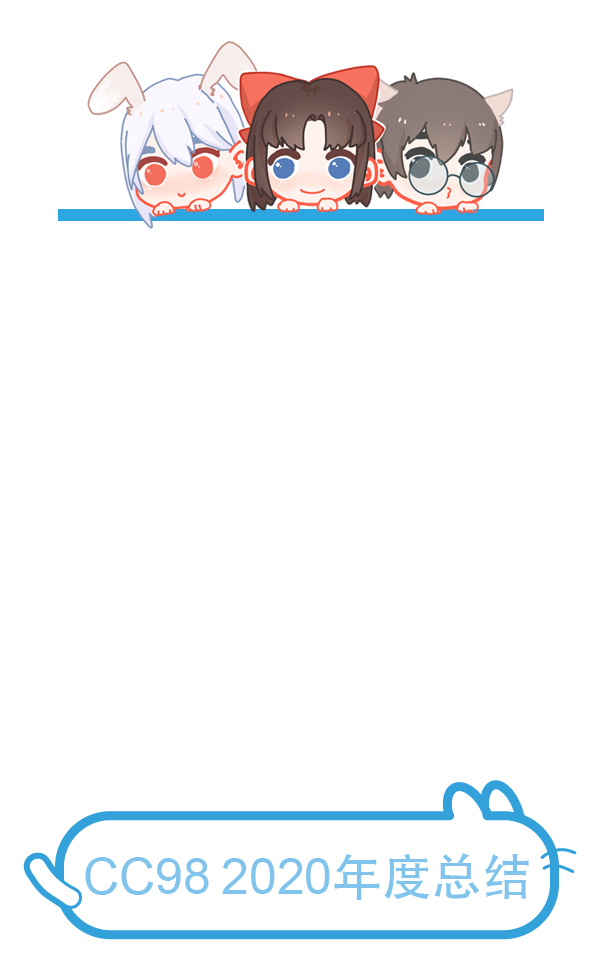
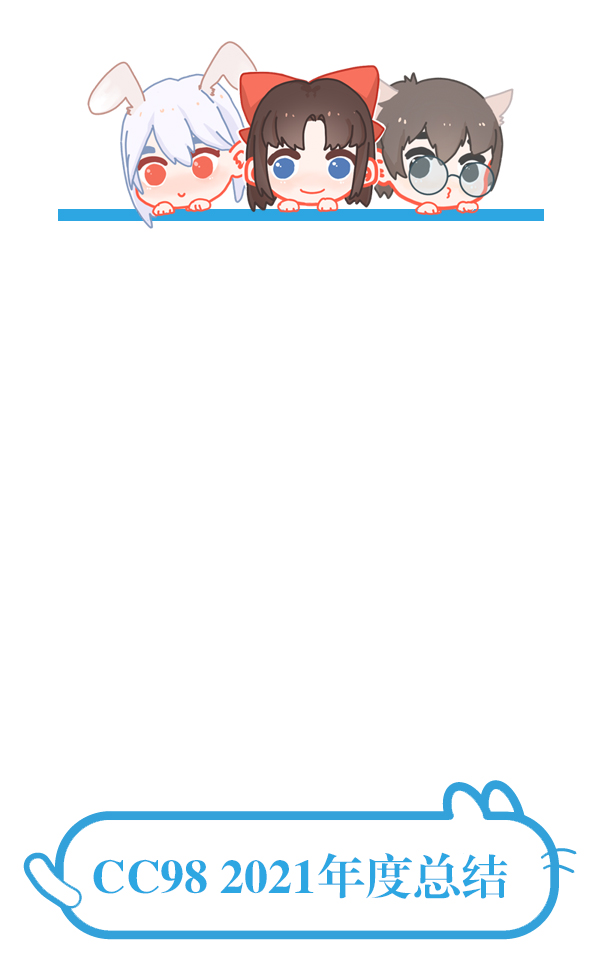
2021年度总结

Changed region(s): [[0.09, 0.875, 0.9, 0.9688], [0.9, 0.875, 0.93, 0.9062]]

diff --git a/CC98.Forum/CC98.Forum/Pages/AnnualReview/page6.tsx b/CC98.Forum/CC98.Forum/Pages/AnnualReview/page6.tsx
@@ -22,7 +22,7 @@ export default class extends React.Component<{ data }> {
         <div>CC98论坛祝你：</div>
         <div><span className="annual-review-page6-congratulation">身体健康</span></div>
         <div><span className="annual-review-page6-congratulation">学习生活顺利</span></div>
-        <div><span className="annual-review-page6-congratulation">幸福2021</span></div>
+        <div><span className="annual-review-page6-congratulation">幸福2022</span></div>
       </div>
     );
   }

diff --git a/CC98.Forum/CC98.Forum/Components/App.tsx b/CC98.Forum/CC98.Forum/Components/App.tsx
@@ -72,7 +72,7 @@ class App extends React.Component<Props> {
         <Route path="/editor/:mode/:id?" component={ShowEdit} />
 
         <Route path="/board/:id/:page?" component={RBoard} />
-        <Route path="/annual-review-2020" component={AnnualReview} />
+        <Route path="/annual-review-2021" component={AnnualReview} />
         <Route path="/error/401" component={Status.UnauthorizedBoard} />
         <Route path="/index" component={Index} />
 

diff --git a/CC98.Forum/CC98.Forum/Pages/AnnualReview/page1.tsx b/CC98.Forum/CC98.Forum/Pages/AnnualReview/page1.tsx
@@ -15,7 +15,7 @@ export default class extends React.Component<{ data }> {
           src={`${data.userInfo.portraitUrl}`}
         ></img>
         <div>
-          在过去的2020年里，你有
+          在过去的2021年里，你有
           <span className="annual-review-page2-topicCount">
             {data.postDay}
           </span>
